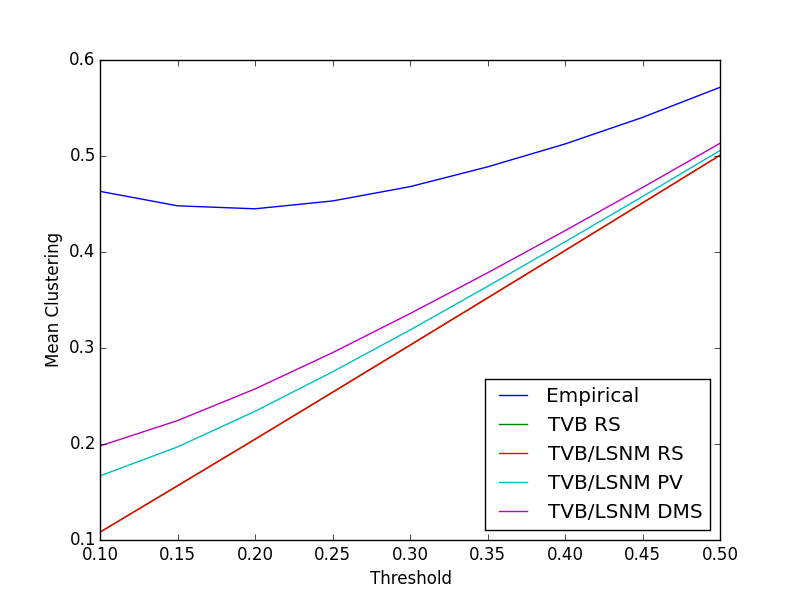
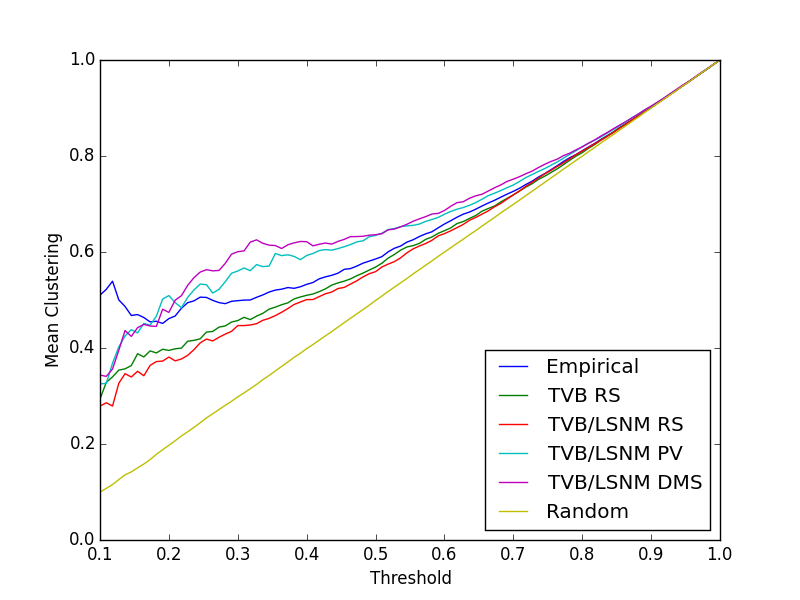
Refined graph theoretical measures of simulated FC matrices

diff --git a/analysis/avg_FC_TVB_ROIs_across_subjects.py b/analysis/avg_FC_TVB_ROIs_across_subjects.py
@@ -38,7 +38,7 @@
 #
 #   Author: Antonio Ulloa
 #
-#   Last updated by Antonio Ulloa on April 12 2016
+#   Last updated by Antonio Ulloa on April 12 2017
 #
 #   Based on computer code originally developed by Barry Horwitz et al
 #   Also based on Python2.7 tutorials
@@ -74,6 +74,8 @@
 #from mayavi import mlab
 ################## TESTING 3D PLOT OF ADJACENCY MATRIX
 
+from tvb.datatypes import connectivity
+
 import numpy as np
 import matplotlib.pyplot as plt
 
@@ -105,6 +107,7 @@ from mne.viz import circular_layout, plot_connectivity_circle
 import bct as bct
 
 import csv
+
 
 # The following converts from adjacency matrix to edge list
 # Adapted from code by: Jermaine Kaminski
@@ -257,11 +260,17 @@ TVB_LSNM_DMS_subj8  = 'subject_18/output.DMSTask/xcorr_matrix_998_regions.npy'
 TVB_LSNM_DMS_subj9  = 'subject_19/output.DMSTask/xcorr_matrix_998_regions.npy'
 TVB_LSNM_DMS_subj10 = 'subject_20/output.DMSTask/xcorr_matrix_998_regions.npy'
 
+# Define structural connectivity that was used for simulations (998 ROI matrix from TVB demo set)
+print 'Loading TVB structural connectivity used for simulations'
+white_matter = connectivity.Connectivity.from_file("connectivity_998.zip")
+empirical_sc_hires = np.asarray(white_matter.weights)
+
+
 ##################################################################################
 # Open input files containing both empirical and simulated functional connectivity
 # matrices
 ##################################################################################
-print 'Opening input files containing FC matrices...'
+print 'Opening input files containing FC matrices (empirical and simulated)...'
 
 # open matlab file that contains hagmann empirical data
 hagmann_empirical = scipy.io.loadmat(hagmann_data)
@@ -333,7 +342,7 @@ tvb_lsnm_dms = np.array([tvb_lsnm_dms_subj1, tvb_lsnm_dms_subj2, tvb_lsnm_dms_su
 num_of_sub = len(tvb_rs)
 
 # num_of_density thresholds to be used
-num_of_densities = 9
+num_of_densities = 100 #35
 
 # number of randomly generated functional connectiviy matrices to be generated. These FC matrices
 # will be used to compare against actual FC matrices. Used 20 found in the graph theory literature.
@@ -391,7 +400,7 @@ for s in range(0, num_of_sub):
             tvb_lsnm_dms_lowres_Z[s, x, y]= tvb_lsnm_dms_lowres_Z[s, x, y] / total_freq
 
 ###########################################################################
-# Compress hi-res empirical FC matrices into lo-res FC matrices
+# Compress hi-res empirical SC & FC matrices into lo-res SC & FC matrices
 # we need to apply a Fisher Z transformation to the correlation coefficients,
 # prior to averaging.
 ###########################################################################
@@ -399,6 +408,7 @@ empirical_fc_hires_Z = np.arctanh(hagmann_empirical['COR_fMRI_average'])
 
 # initialize 66x66 matrix
 empirical_fc_lowres_Z = np.zeros([lores_ROIs, lores_ROIs])
+empirical_sc_lowres   = np.zeros([lores_ROIs, lores_ROIs])
 
 # compress 998x998 FC matrix to 66x66 FC matrix by averaging
 for i in range(0, hires_ROIs):
@@ -409,12 +419,14 @@ for i in range(0, hires_ROIs):
         y = hagmann_empirical['roi_lbls'][0][j]
 
         empirical_fc_lowres_Z[x, y] += empirical_fc_hires_Z[i, j]
+        empirical_sc_lowres[x, y]   += empirical_sc_hires[i, j]
 
 # divide each sum by the number of hires ROIs within each lowres ROI
 for x in range(0, lores_ROIs):
     for y in range(0, lores_ROIs):
         total_freq = freq_array[x][1] * freq_array[y][1]
-        empirical_fc_lowres_Z[x, y] = empirical_fc_lowres_Z[x, y] / total_freq 
+        empirical_fc_lowres_Z[x, y] = empirical_fc_lowres_Z[x, y] / total_freq
+        empirical_sc_lowres[x, y]   = empirical_sc_lowres[x, y] / total_freq
 
 # now, convert back to from Z to R correlation coefficients
 empirical_fc_hires  = np.tanh(empirical_fc_hires_Z)
@@ -526,33 +538,40 @@ tvb_lsnm_dms_mean  = np.tanh(tvb_lsnm_dms_z_mean)
 # threshold the connectivity matrix to preserve only a proportion 'p' of
 # the strongest weights, then binarize the matrix
 min_sparsity = 0.1
-max_sparsity = 0.5
+max_sparsity = 1.0
 num_sparsity = num_of_densities
-EMP_RS_EFFICIENCY = np.zeros(num_sparsity)
+EMP_RS_EFFICIENCY_G   = np.zeros(num_sparsity)
+EMP_RS_EFFICIENCY_L = np.zeros(num_sparsity)
 EMP_RS_CLUSTERING = np.zeros(num_sparsity)
 EMP_RS_MODULARITY = np.zeros(num_sparsity)
-EMP_RS_DEGREE     = np.zeros((num_sparsity, hires_ROIs))
+EMP_RS_DEGREE     = np.zeros((num_sparsity, lores_ROIs))
 EMP_RS_BW_RATIO   = np.zeros(num_sparsity)
-TVB_RS_EFFICIENCY = np.zeros(num_sparsity)
+TVB_RS_EFFICIENCY_G  = np.zeros(num_sparsity)
+TVB_RS_EFFICIENCY_L = np.zeros(num_sparsity)
 TVB_RS_CLUSTERING = np.zeros(num_sparsity)
 TVB_RS_MODULARITY = np.zeros(num_sparsity)
-TVB_RS_DEGREE     = np.zeros((num_sparsity, hires_ROIs))
+TVB_RS_DEGREE     = np.zeros((num_sparsity, lores_ROIs))
 TVB_RS_BW_RATIO   = np.zeros(num_sparsity)
-TVB_LSNM_RS_EFFICIENCY = np.zeros(num_sparsity)
+TVB_LSNM_RS_EFFICIENCY_G = np.zeros(num_sparsity)
+TVB_LSNM_RS_EFFICIENCY_L = np.zeros(num_sparsity)
 TVB_LSNM_RS_CLUSTERING = np.zeros(num_sparsity)
 TVB_LSNM_RS_MODULARITY = np.zeros(num_sparsity)
-TVB_LSNM_RS_DEGREE     = np.zeros((num_sparsity, hires_ROIs))
+TVB_LSNM_RS_DEGREE     = np.zeros((num_sparsity, lores_ROIs))
 TVB_LSNM_RS_BW_RATIO  = np.zeros(num_sparsity)
-TVB_LSNM_PV_EFFICIENCY = np.zeros(num_sparsity)
+TVB_LSNM_PV_EFFICIENCY_G = np.zeros(num_sparsity)
+TVB_LSNM_PV_EFFICIENCY_L = np.zeros(num_sparsity)
 TVB_LSNM_PV_CLUSTERING = np.zeros(num_sparsity)
 TVB_LSNM_PV_MODULARITY = np.zeros(num_sparsity)
-TVB_LSNM_PV_DEGREE     = np.zeros((num_sparsity, hires_ROIs))
+TVB_LSNM_PV_DEGREE     = np.zeros((num_sparsity, lores_ROIs))
 TVB_LSNM_PV_BW_RATIO  = np.zeros(num_sparsity)
-TVB_LSNM_DMS_EFFICIENCY = np.zeros(num_sparsity)
+TVB_LSNM_DMS_EFFICIENCY_G = np.zeros(num_sparsity)
+TVB_LSNM_DMS_EFFICIENCY_L = np.zeros(num_sparsity)
 TVB_LSNM_DMS_CLUSTERING = np.zeros(num_sparsity)
 TVB_LSNM_DMS_MODULARITY = np.zeros(num_sparsity)
-TVB_LSNM_DMS_DEGREE     = np.zeros((num_sparsity, hires_ROIs))
+TVB_LSNM_DMS_DEGREE     = np.zeros((num_sparsity, lores_ROIs))
 TVB_LSNM_DMS_BW_RATIO  = np.zeros(num_sparsity)
+
+DMS_RS_DEGREE_DIFF = np.zeros((num_sparsity, lores_ROIs))
 
 RAND_MAT_EFFICIENCY=np.zeros(num_sparsity)
 RAND_MAT_CLUSTERING=np.zeros(num_sparsity)
@@ -574,10 +593,10 @@ tvb_lsnm_dms_hr_bin= np.zeros((num_of_densities, hires_ROIs, hires_ROIs))
 
 # generate a number of random weighted undirected FC matrices that will be used
 # as a reference to compare functional connectivity matrices
-rand_mat = np.random.rand(num_random, hires_ROIs, hires_ROIs)
-for r in range(0, num_random):
-    rand_mat[r] = (rand_mat[r] + rand_mat[r].T) / 2       # make it symmetrical
-    np.fill_diagonal(rand_mat[r], 1.0)                    # fill diagonal with 1's
+#rand_mat = np.random.rand(num_random, lores_ROIs, lores_ROIs)
+#for r in range(0, num_random):
+#    rand_mat[r] = (rand_mat[r] + rand_mat[r].T) / 2       # make it symmetrical
+#    np.fill_diagonal(rand_mat[r], 1.0)                    # fill diagonal with 1's
 
 
 threshold_array = np.linspace(min_sparsity, max_sparsity, num_sparsity)
@@ -610,7 +629,7 @@ for d in range(num_of_densities):
     # Do these calculations for both, hi and low resolution FC matrices
     emp_rs_a           = np.absolute(empirical_fc_lowres)
     emp_rs_p           = bct.threshold_proportional(emp_rs_a, threshold_array[d], copy=True)
-    emp_rs_bin[d]   = bct.binarize(emp_rs_p, copy=True)    
+    emp_rs_bin[d]      = bct.binarize(emp_rs_p, copy=True)    
     
     emp_rs_a           = np.absolute(empirical_fc_hires)
     emp_rs_p           = bct.threshold_proportional(emp_rs_a, threshold_array[d], copy=True)
@@ -649,33 +668,43 @@ for d in range(num_of_densities):
     tvb_lsnm_dms_hr_bin[d] = bct.binarize(tvb_lsnm_dms_p, copy=True)
 
     # calculate global efficiency for each condition using Brain Connectivity Toolbox
-    EMP_RS_EFFICIENCY[d]      = np.mean(bct.efficiency_bin(emp_rs_hr_bin[d], local=True))  
-    TVB_RS_EFFICIENCY[d]      = np.mean(bct.efficiency_bin(tvb_rs_hr_bin[d], local=True)) 
-    TVB_LSNM_RS_EFFICIENCY[d] = np.mean(bct.efficiency_bin(tvb_lsnm_rs_hr_bin[d], local=True)) 
-    TVB_LSNM_PV_EFFICIENCY[d] = np.mean(bct.efficiency_bin(tvb_lsnm_pv_hr_bin[d], local=True))
-    TVB_LSNM_DMS_EFFICIENCY[d]= np.mean(bct.efficiency_bin(tvb_lsnm_dms_hr_bin[d], local=True)) 
+    EMP_RS_EFFICIENCY_G[d]      = bct.efficiency_bin(emp_rs_bin[d])  
+    TVB_RS_EFFICIENCY_G[d]      = bct.efficiency_bin(tvb_rs_bin[d]) 
+    TVB_LSNM_RS_EFFICIENCY_G[d] = bct.efficiency_bin(tvb_lsnm_rs_bin[d]) 
+    TVB_LSNM_PV_EFFICIENCY_G[d] = bct.efficiency_bin(tvb_lsnm_pv_bin[d])
+    TVB_LSNM_DMS_EFFICIENCY_G[d]= bct.efficiency_bin(tvb_lsnm_dms_bin[d]) 
+
+    # calculate mean local efficiency for each condition using Brain Connectivity Toolbox
+    EMP_RS_EFFICIENCY_L[d]      = bct.efficiency_bin(emp_rs_bin[d], local=True)  
+    TVB_RS_EFFICIENCY_L[d]      = bct.efficiency_bin(tvb_rs_bin[d], local=True) 
+    TVB_LSNM_RS_EFFICIENCY_L[d] = bct.efficiency_bin(tvb_lsnm_rs_bin[d], local=True) 
+    TVB_LSNM_PV_EFFICIENCY_L[d] = bct.efficiency_bin(tvb_lsnm_pv_bin[d], local=True)
+    TVB_LSNM_DMS_EFFICIENCY_L[d]= bct.efficiency_bin(tvb_lsnm_dms_bin[d], local=True) 
         
     # calculate clustering coefficient vector using Brain Connectivity Toolbox
-    EMP_RS_CLUSTERING[d]      = np.mean(bct.clustering_coef_bu(emp_rs_hr_bin[d]))
-    TVB_RS_CLUSTERING[d]      = np.mean(bct.clustering_coef_bu(tvb_rs_hr_bin[d]))
-    TVB_LSNM_RS_CLUSTERING[d] = np.mean(bct.clustering_coef_bu(tvb_lsnm_rs_hr_bin[d]))
-    TVB_LSNM_PV_CLUSTERING[d] = np.mean(bct.clustering_coef_bu(tvb_lsnm_pv_hr_bin[d]))
-    TVB_LSNM_DMS_CLUSTERING[d] = np.mean(bct.clustering_coef_bu(tvb_lsnm_dms_hr_bin[d]))
+    EMP_RS_CLUSTERING[d]      = np.mean(bct.clustering_coef_bu(emp_rs_bin[d]))
+    TVB_RS_CLUSTERING[d]      = np.mean(bct.clustering_coef_bu(tvb_rs_bin[d]))
+    TVB_LSNM_RS_CLUSTERING[d] = np.mean(bct.clustering_coef_bu(tvb_lsnm_rs_bin[d]))
+    TVB_LSNM_PV_CLUSTERING[d] = np.mean(bct.clustering_coef_bu(tvb_lsnm_pv_bin[d]))
+    TVB_LSNM_DMS_CLUSTERING[d] = np.mean(bct.clustering_coef_bu(tvb_lsnm_dms_bin[d]))
         
     # calculate modularity using Brain Connectivity Toolbox
-    EMP_RS_MODULARITY[d]       = bct.modularity_und(emp_rs_hr_bin[d], gamma=1, kci=None)[1]
-    TVB_RS_MODULARITY[d]       = bct.modularity_und(tvb_rs_hr_bin[d], gamma=1, kci=None)[1]
-    TVB_LSNM_RS_MODULARITY[d]  = bct.modularity_und(tvb_lsnm_rs_hr_bin[d], gamma=1, kci=None)[1]
-    TVB_LSNM_PV_MODULARITY[d]  = bct.modularity_und(tvb_lsnm_pv_hr_bin[d], gamma=1, kci=None)[1]
-    TVB_LSNM_DMS_MODULARITY[d] = bct.modularity_und(tvb_lsnm_dms_hr_bin[d], gamma=1, kci=None)[1]
+    EMP_RS_MODULARITY[d]       = bct.modularity_und(emp_rs_bin[d], gamma=1, kci=None)[1]
+    TVB_RS_MODULARITY[d]       = bct.modularity_und(tvb_rs_bin[d], gamma=1, kci=None)[1]
+    TVB_LSNM_RS_MODULARITY[d]  = bct.modularity_und(tvb_lsnm_rs_bin[d], gamma=1, kci=None)[1]
+    TVB_LSNM_PV_MODULARITY[d]  = bct.modularity_und(tvb_lsnm_pv_bin[d], gamma=1, kci=None)[1]
+    TVB_LSNM_DMS_MODULARITY[d] = bct.modularity_und(tvb_lsnm_dms_bin[d], gamma=1, kci=None)[1]
         
     # calculate node degree using BCT
-    EMP_RS_DEGREE[d]          = bct.degrees_und(emp_rs_hr_bin[d])
-    TVB_RS_DEGREE[d]          = bct.degrees_und(tvb_rs_hr_bin[d])
-    TVB_LSNM_RS_DEGREE[d]     = bct.degrees_und(tvb_lsnm_rs_hr_bin[d])
-    TVB_LSNM_PV_DEGREE[d]     = bct.degrees_und(tvb_lsnm_pv_hr_bin[d])
-    TVB_LSNM_DMS_DEGREE[d]    = bct.degrees_und(tvb_lsnm_dms_hr_bin[d])
-        
+    EMP_RS_DEGREE[d]          = bct.degrees_und(emp_rs_bin[d])
+    TVB_RS_DEGREE[d]          = bct.degrees_und(tvb_rs_bin[d])
+    TVB_LSNM_RS_DEGREE[d]     = bct.degrees_und(tvb_lsnm_rs_bin[d])
+    TVB_LSNM_PV_DEGREE[d]     = bct.degrees_und(tvb_lsnm_pv_bin[d])
+    TVB_LSNM_DMS_DEGREE[d]    = bct.degrees_und(tvb_lsnm_dms_bin[d])
+
+    # calculate the node degree differences at each density treshold
+    DMS_RS_DEGREE_DIFF[d] = TVB_LSNM_DMS_DEGREE[d] - TVB_LSNM_RS_DEGREE[d]
+    
     # calculate number of between-module connections...
     # and the number of within-module connections...
     # and use those to calculate the ratio of the avg between- to avg within-module connections
@@ -864,35 +893,35 @@ fig.savefig('empirical_rs_fc.png')
 fig = plt.figure('Mean TVB-only RS FC (binary at 10% sparsity)')
 ax = fig.add_subplot(111)
 # plot correlation matrix as a heatmap
-cax = ax.imshow(tvb_rs_hr_bin[0], interpolation='nearest', cmap='Greys')
+cax = ax.imshow(tvb_rs_bin[0], interpolation='nearest', cmap='Greys')
 ax.grid(False)
 fig.savefig('binary_tvb_only_rs_fc.png')
 
 fig = plt.figure('Mean TVB/LSNM RS FC (binarized at 10% sparsity)')
 ax = fig.add_subplot(111)
 # plot correlation matrix as a heatmap
-cax = ax.imshow(tvb_lsnm_rs_hr_bin[0], interpolation='nearest', cmap='Greys')
+cax = ax.imshow(tvb_lsnm_rs_bin[0], interpolation='nearest', cmap='Greys')
 ax.grid(False)
 fig.savefig('binary_tvb_lsnm_rs_fc.png')
 
 fig = plt.figure('Mean TVB/LSNM PV FC (binarized at 10% sparsity)')
 ax = fig.add_subplot(111)
 # plot correlation matrix as a heatmap
-cax = ax.imshow(tvb_lsnm_pv_hr_bin[0], interpolation='nearest', cmap='Greys')
+cax = ax.imshow(tvb_lsnm_pv_bin[0], interpolation='nearest', cmap='Greys')
 ax.grid(False)
 fig.savefig('binary_tvb_lsnm_pv_fc.png')
 
 fig = plt.figure('Mean TVB/LSNM DMS FC (binarized at 10% sparsity)')
 ax = fig.add_subplot(111)
 # plot correlation matrix as a heatmap
-cax = ax.imshow(tvb_lsnm_dms_hr_bin[0], interpolation='nearest', cmap='Greys')
+cax = ax.imshow(tvb_lsnm_dms_bin[0], interpolation='nearest', cmap='Greys')
 ax.grid(False)
 fig.savefig('binary_tvb_lsnm_dms_fc.png')
 
 fig = plt.figure('Empirical RS FC matrix (binarized at 10% sparsity)')
 ax = fig.add_subplot(111)
 # plot correlation matrix as a heatmap
-cax = ax.imshow(emp_rs_hr_bin[0], interpolation='nearest', cmap='Greys')
+cax = ax.imshow(emp_rs_bin[0], interpolation='nearest', cmap='Greys')
 ax.grid(False)
 fig.savefig('binary_empirical_fc.png')
 
@@ -956,8 +985,9 @@ plt.plot(threshold_array, TVB_RS_EFFICIENCY, label='TVB RS')
 plt.plot(threshold_array, TVB_LSNM_RS_EFFICIENCY, label='TVB/LSNM RS')
 plt.plot(threshold_array, TVB_LSNM_PV_EFFICIENCY, label='TVB/LSNM PV')
 plt.plot(threshold_array, TVB_LSNM_DMS_EFFICIENCY, label='TVB/LSNM DMS')
+#plt.plot(threshold_array, RAND_MAT_EFFICIENCY, label='Random')
 plt.xlabel('Threshold')
-plt.ylabel('Mean local Efficiency')
+plt.ylabel('Mean Global Efficiency')
 plt.legend(loc='best')
 fig.savefig('efficiency_across_thresholds.png')
 
@@ -968,7 +998,7 @@ plt.plot(threshold_array, TVB_RS_CLUSTERING, label='TVB RS')
 plt.plot(threshold_array, TVB_LSNM_RS_CLUSTERING, label='TVB/LSNM RS')
 plt.plot(threshold_array, TVB_LSNM_PV_CLUSTERING, label='TVB/LSNM PV')
 plt.plot(threshold_array, TVB_LSNM_DMS_CLUSTERING, label='TVB/LSNM DMS')
-#plt.plot(threshold_array, RAND_MAT_CLUSTERING, label='Empirical')
+#plt.plot(threshold_array, RAND_MAT_CLUSTERING, label='Random')
 plt.xlabel('Threshold')
 plt.ylabel('Mean Clustering')
 plt.legend(loc='best')
@@ -981,7 +1011,7 @@ plt.plot(threshold_array, TVB_RS_MODULARITY, label='TVB RS')
 plt.plot(threshold_array, TVB_LSNM_RS_MODULARITY, label='TVB/LSNM RS')
 plt.plot(threshold_array, TVB_LSNM_PV_MODULARITY, label='TVB/LSNM PV')
 plt.plot(threshold_array, TVB_LSNM_DMS_MODULARITY, label='TVB/LSNM DMS')
-#plt.plot(threshold_array, RAND_MAT_MODULARITY, label='Empirical')
+#plt.plot(threshold_array, RAND_MAT_MODULARITY, label='Random')
 plt.xlabel('Threshold')
 plt.ylabel('Modularity Index')
 plt.legend(loc='best')
@@ -1320,6 +1350,8 @@ for d in range(0, num_of_densities):
     r_array_RS_v_DMS[d] = np.corrcoef(TVB_LSNM_RS_DEGREE[d], TVB_LSNM_DMS_DEGREE[d])[1,0]
     r_array_PV_v_DMS[d] = np.corrcoef(TVB_LSNM_PV_DEGREE[d], TVB_LSNM_DMS_DEGREE[d])[1,0]
 
+print 'Each node degree array is of the following size: ', TVB_LSNM_RS_DEGREE[d].shape
+
 plt.plot(threshold_array, r_array_RS_v_PV,  label='TVB/LSNM RS v PV')
 plt.plot(threshold_array, r_array_RS_v_DMS, label='TVB/LSNM RS v DMS')
 plt.plot(threshold_array, r_array_PV_v_DMS, label='TVB/LSNM PV v DMS')
@@ -1358,6 +1390,17 @@ plt.plot(TVB_LSNM_RS_DEGREE[-1], m*TVB_LSNM_RS_DEGREE[-1] + b, '-', color='red')
 # calculate correlation coefficient and display it on plot
 r = np.corrcoef(TVB_LSNM_RS_DEGREE[-1], TVB_LSNM_DMS_DEGREE[-1])[1,0]
 plt.text(1, 22, 'r=' + '{:.2f}'.format(r))
+
+#############################################################################
+# Plot node degree difference as bar graphs
+#############################################################################
+# initialize new figure for node degree differences bar chart
+fig=plt.figure('Node degree differences between RS and DMS FC networks')
+bar_pos = np.arange(len(labels))
+plt.bar(bar_pos, DMS_RS_DEGREE_DIFF[1], align='center', alpha=0.5)
+plt.xticks(bar_pos, labels, rotation='vertical')
+plt.ylabel('Node degree difference')
+plt.xlabel('ROI')
 
 
 ###################################################################################################
@@ -1411,6 +1454,26 @@ plt.plot(corr_mat_emp_FC, m*corr_mat_emp_FC + b, '-', color='red')
 # calculate correlation coefficient and display it on plot
 r = np.corrcoef(corr_mat_emp_FC, corr_mat_sim_TVB_RS_FC)[1,0]
 plt.text(0.5, -0.04, 'r=' + '{:.2f}'.format(r))
+
+###########################################################################
+# Plot empirical structural connectivity matrices (lo-res and hi-res) that
+# was used for simulations
+###########################################################################
+fig=plt.figure('TVB/Hagmann Structural Connectivity Matrix (66 ROIs)')
+ax = fig.add_subplot(111)
+cmap = CM.get_cmap('jet', 10)
+cax = ax.imshow(empirical_sc_lowres, vmin=0, vmax=1, interpolation='nearest', cmap=cmap)
+ax.grid(False)
+color_bar=plt.colorbar(cax)
+fig.savefig('empirical_sc_lores.png')
+
+fig=plt.figure('TVB/Hagmann Structural Connectivity Matrix (998 ROIs)')
+ax = fig.add_subplot(111)
+cmap = CM.get_cmap('jet', 10)
+cax = ax.imshow(empirical_sc_hires, vmin=0, vmax=1, interpolation='nearest', cmap=cmap)
+ax.grid(False)
+color_bar=plt.colorbar(cax)
+fig.savefig('empirical_sc_hires.png')
 
 # Show the plots on the screen
 plt.show()
